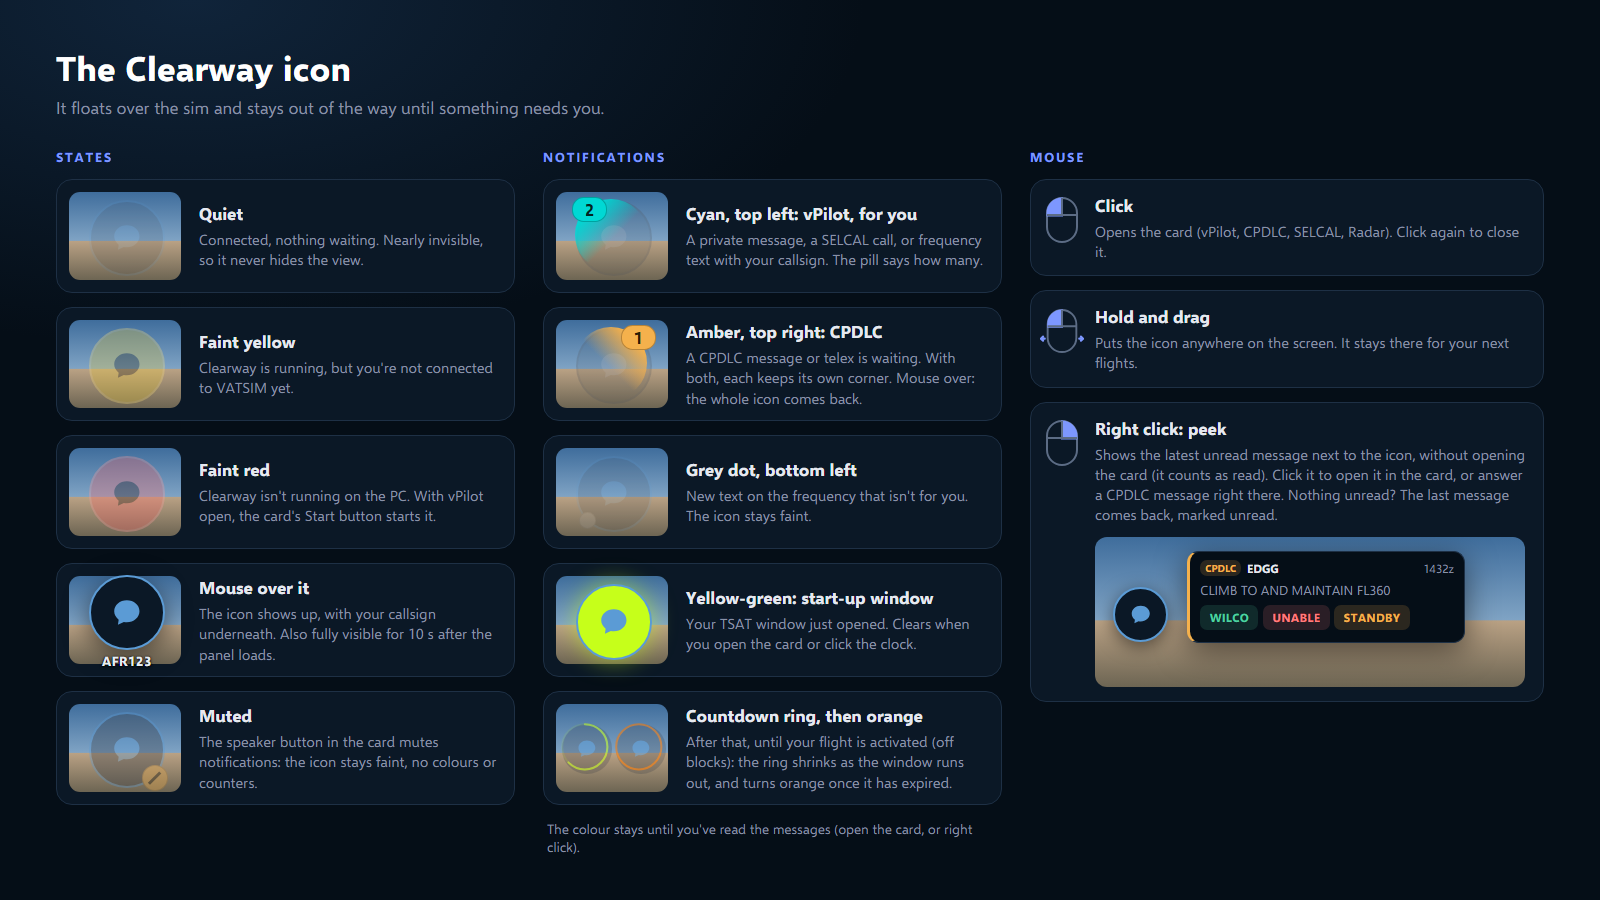
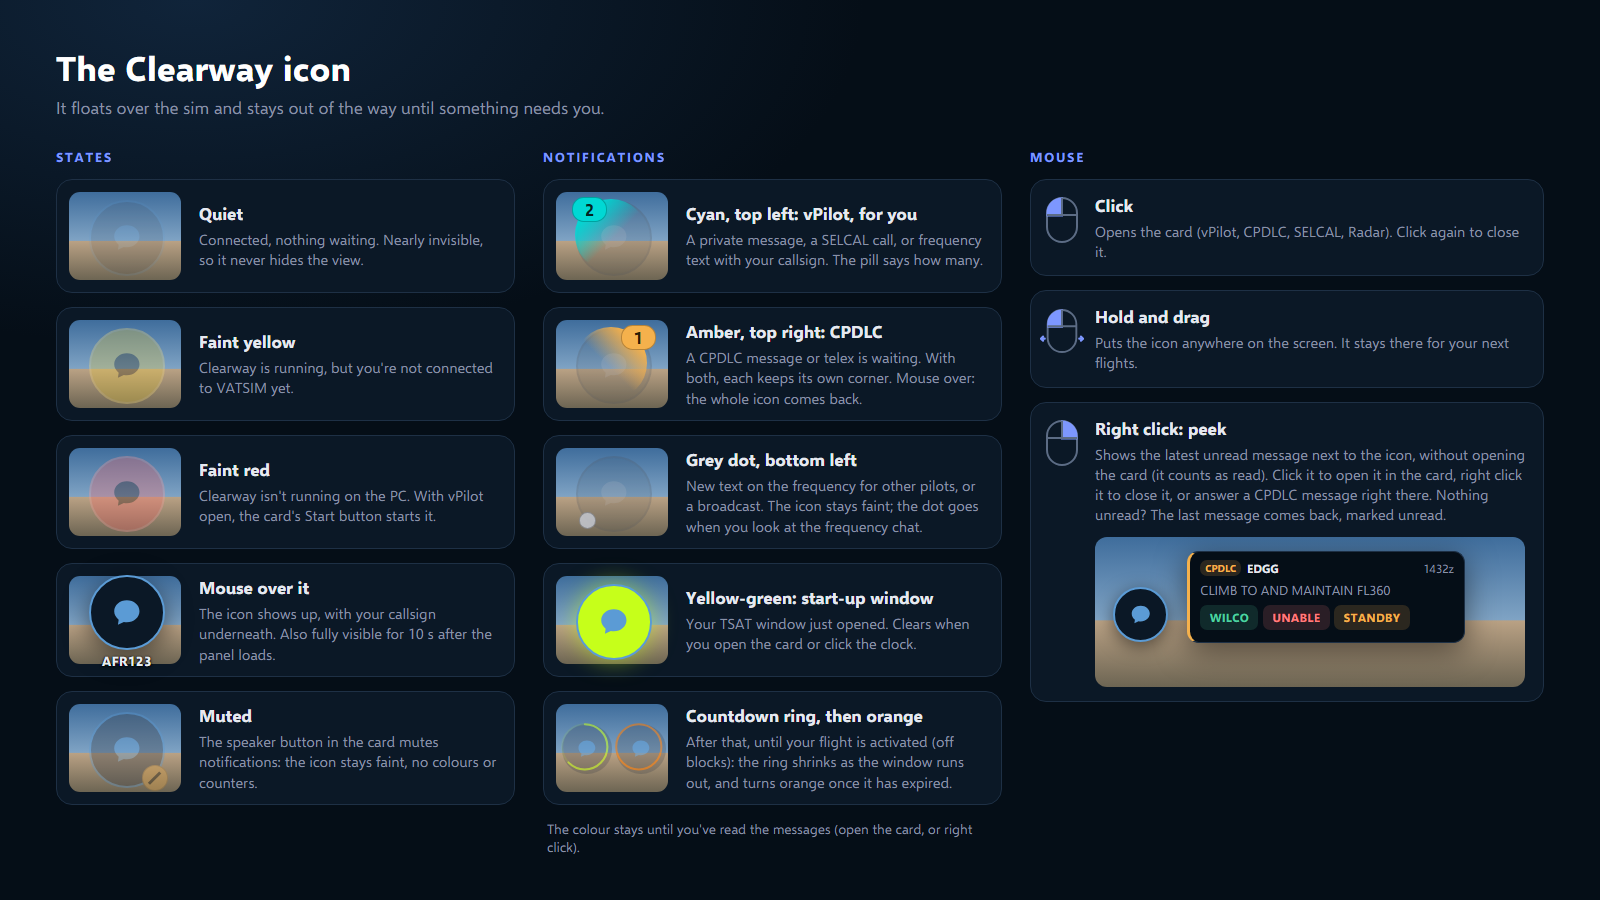
Add files via upload

Changed region(s): [[0.4062, 0.4978, 0.625, 0.5911], [0.6875, 0.5289, 0.9375, 0.5911], [0.3438, 0.56, 0.375, 0.5911]]

diff --git a/msfs-panel/html_ui/InGamePanels/ClearwayPanel/ClearwayPanel.js b/msfs-panel/html_ui/InGamePanels/ClearwayPanel/ClearwayPanel.js
@@ -263,13 +263,13 @@
     var status = !reachable ? "offline" : (state ? state.status : "offline");
     var vpOnline = reachable && state && state.vpilot && state.vpilot.connected;
     // vPilot messages meant for me (private chats, SELCAL, frequency text with my callsign) colour the icon;
-    // the rest (broadcasts, all-frequency alerts) only show a faint dot at its bottom right
+    // the rest (new frequency text for others, broadcasts) only show a small grey dot at its bottom left
     var vpMine = 0;
     if (vpCount && state) for (var i = 0; i < state.messages.length; i++) {
       var m = state.messages[i];
       if (m.dir === "in" && !m.acked && (m.kind === "pm" || m.kind === "selcal" || (m.kind === "radio" && m.mention))) vpMine++;
     }
-    var vpOther = vpCount - vpMine;
+    var vpOther = vpCount - vpMine + (reachable && state ? (state.quiet_vpilot || 0) : 0);
 
     bubble.className = "";
     if (status === "online" || vpOnline) bubble.classList.add("online");
@@ -281,17 +281,21 @@
       if (!expanded) bubble.classList.add("idle");
     } else {
       // first seconds after the panel opens: fully visible so it's easy to find, then the usual faint icon
-      if (!vpMine && !cpCount && !expanded && Date.now() >= introUntil) bubble.classList.add("idle");   // nearly invisible until needed
-      // a new message simply turns the icon solid (no flashing): amber for CPDLC, cyan for vPilot messages to me
-      if (cpCount > 0) bubble.classList.add("alert");
-      else if (vpMine > 0) bubble.classList.add("alert-vp");
+      var anyUnread = vpMine > 0 || cpCount > 0 || vpOther > 0;
+      if (!anyUnread && !expanded && Date.now() >= introUntil) bubble.classList.add("idle");   // nearly invisible until needed
+      // a new message colours the quarter under its pill (no flashing): cyan top left for vPilot messages to me,
+      // amber top right for CPDLC. With the card closed the rest of the icon fades away until hovered.
+      // vPilot messages that aren't for me: no colour, only the grey dot (faint by colours, not opacity, so the dot shows)
+      if (vpMine > 0) bubble.classList.add("q-vp");
+      if (cpCount > 0) bubble.classList.add("q-cp");
+      if (anyUnread && !expanded && Date.now() >= introUntil) bubble.classList.add("q-faint");
     }
     // start-up window open (TSAT -5 to +5 min) and not seen yet: the icon turns electric yellow-green
     tsatAlertOn = tsatAlert();
-    if (tsatAlertOn) { bubble.classList.remove("idle"); bubble.classList.add("alert-tsat"); }
+    if (tsatAlertOn) { bubble.classList.remove("idle"); bubble.classList.remove("q-faint"); bubble.classList.add("alert-tsat"); }
     // after that, until the flight is activated: a ring counting down the rest of the start-up window, then orange
     updateTsatRing();
-    lastVp = vpMine; lastCp = cpCount;
+    lastVp = vpMine + vpOther; lastCp = cpCount;
     el("cw-odot").classList.toggle("hidden", paused || !vpOther || vpMine > 0 || cpCount > 0);
     var cs = myCallsign(), bcs = el("cw-bub-cs");
     if (bcs.textContent !== cs) bcs.textContent = cs;
@@ -453,7 +457,9 @@
     // reading the chat on screen marks it read
     if (expanded && tab === "vpilot" && !notesOpen && !atcOpen) {
       for (var k = 0; k < chats.length; k++) {
-        if (chats[k].name === activeChat && chats[k].unread && !ackPending[activeChat]) {
+        // (new frequency text for others counts too: it clears the icon's grey dot)
+        var fresh = chats[k].unread || (activeChat === "FREQ" && state && state.quiet_vpilot);
+        if (chats[k].name === activeChat && fresh && !ackPending[activeChat]) {
           ackPending[activeChat] = true;
           (function (chat) { act("ack", { chat: chat }, null, null, function () { delete ackPending[chat]; }); })(activeChat);
         }
@@ -1463,6 +1469,7 @@
     save("CLEARWAY_EXPANDED", expanded);
     if (expanded) tsatSeen();                  // opening the card counts as seeing the start-up window alert
     el("cw-bubble").classList.toggle("idle", !expanded && !(lastVp || lastCp) && !tsatAlertOn);
+    el("cw-bubble").classList.toggle("q-faint", !expanded && !paused && !!(lastVp || lastCp) && !tsatAlertOn);
     if (expanded) { lastChatKey = ""; placeCard(); poll(true); }
   }
 
@@ -1782,6 +1789,11 @@
     // peek() ignores a second call within 350 ms, so a sim that sends both still peeks once.
     el("cw-bubble").addEventListener("mouseup", function (e) { if (e.button === 2) { e.preventDefault(); peek(); } });
     el("cw-peek").addEventListener("click", onPeekClick);
+    // right click on the peek closes it (mousedown, contextmenu, or only the release in MSFS 2024)
+    var closePeekRight = function (e) { if (e.type === "contextmenu" || e.button === 2) { e.preventDefault(); e.stopPropagation(); hidePeek(); } };
+    el("cw-peek").addEventListener("mousedown", closePeekRight);
+    el("cw-peek").addEventListener("mouseup", closePeekRight);
+    el("cw-peek").addEventListener("contextmenu", closePeekRight);
     el("cw-peek").addEventListener("mouseover", function () { peekHover = true; clearTimeout(peekTimer); });
     el("cw-peek").addEventListener("mouseout", function (e) {
       if (e.relatedTarget && el("cw-peek").contains(e.relatedTarget)) return;   // moving between its children

diff --git a/msfs-panel/html_ui/InGamePanels/ClearwayPanel/ClearwayPanel.css b/msfs-panel/html_ui/InGamePanels/ClearwayPanel/ClearwayPanel.css
@@ -756,3 +756,28 @@ textarea.cw-input { resize: none; overflow-y: hidden; line-height: 1.35em; min-h
 .cw-cw-run.starting { background-color: var(--mint-soft); color: var(--mint); }
 /* ATC list: the controller's name (as they show it on VATSIM) at the top right of their information */
 .cw-atc-who { float: right; margin: 0 0 0.2em 0.8em; font-family: "Selawik", "Roboto", sans-serif; font-weight: bold; color: inherit; }
+
+/* Icon blue (speech bubble + thin border): the Dark theme's navy hue, brightened so it shows on the dark icon */
+#cw-root { --icon-blue: #5b9bd5; }
+#cw-root.light { --icon-blue: #3d7bbf; }
+#cw-bubble.online, #cw-bubble.idle.online:hover { border-color: var(--icon-blue); }
+#cw-bubble.online .cw-glyph, #cw-bubble.idle.online:hover .cw-glyph { fill: var(--icon-blue); }
+/* Unread messages: only the quarter under the pill takes its colour, fading towards the centre
+   (vPilot top left in cyan, CPDLC top right in amber) */
+.cw-qglow { display: none; position: absolute; left: -0.14em; top: -0.14em; width: 3.4em; height: 3.4em; border-radius: 50%; }
+.cw-qglow.vp { background: linear-gradient(135deg, rgba(0, 216, 212, 1) 18%, rgba(0, 216, 212, 0.6) 34%, rgba(0, 216, 212, 0) 54%); }
+.cw-qglow.cp { background: linear-gradient(225deg, rgba(245, 177, 76, 1) 18%, rgba(245, 177, 76, 0.6) 34%, rgba(245, 177, 76, 0) 54%); }
+#cw-bubble.q-vp .cw-qglow.vp, #cw-bubble.q-cp .cw-qglow.cp { display: block; }
+#cw-bubble .cw-glyph { position: relative; }
+#cw-bubble .cw-ndot { z-index: 1; }
+/* card closed and not hovered: the icon itself fades away, only the quarters and pills keep their colour.
+   Transparent colours rather than opacity, which would fade the quarters too */
+#cw-bubble.q-faint { background-color: rgba(58, 63, 72, 0.12); border-color: rgba(90, 96, 107, 0.14); box-shadow: none; }
+#cw-bubble.q-faint .cw-glyph { fill: rgba(196, 200, 208, 0.16); }
+#cw-bubble.q-faint:hover { background-color: var(--bubble); border-color: var(--bubble-line); box-shadow: 0 0.3em 1.2em var(--shadow); }
+#cw-bubble.q-faint:hover .cw-glyph { fill: var(--glyph-off); }
+#cw-bubble.q-faint.online:hover { border-color: var(--icon-blue); }
+#cw-bubble.q-faint.online:hover .cw-glyph { fill: var(--icon-blue); }
+/* new vPilot text that isn't for you (frequency text for others, broadcasts): the small grey dot, bottom left. The icon
+   is faint by colours (q-faint) instead of opacity then, so the dot stays visible */
+#cw-bubble .cw-odot { z-index: 1; opacity: 0.85; }

diff --git a/companion/web/radar/radar.js b/companion/web/radar/radar.js
@@ -768,12 +768,12 @@
     c.innerHTML = "<span class='x' id='rd-cardx'><i class='a'></i><i class='b'></i></span>" + h;
     c.className = selected.kind === "airport" ? "ap" : "";
     el("cardx").onclick = function () { selected = null; showCard(); dirty = true; };
-    // controller information is clamped to two lines: a click shows all of it (and stays open across refreshes)
-    var ats = c.getElementsByClassName("atis");
+    // an ATIS is folded to two lines: its link shows all of it (and it stays open across refreshes)
+    var ats = c.getElementsByClassName("atis-more");
     for (var m = 0; m < ats.length; m++) ats[m].onclick = function () {
       var k = this.getAttribute("data-k");
       if (openAtis[k]) delete openAtis[k]; else openAtis[k] = 1;
-      this.className = "atis" + (openAtis[k] ? " open" : "");
+      showCard();
     };
   }
   var openAtis = {};
@@ -789,8 +789,15 @@
     el("tArrN").textContent = t.nArr;
   }
   function ctlHtml(k, voice) {
-    var atis = k.atis && k.atis.length ? "<div class='atis" + (openAtis[k.cs] ? " open" : "") + "' data-k='" + esc(k.cs) +
-      "' title='Click to show all'>" + esc(k.atis.join(" ")) + "</div>" : "";
+    // a controller's information lines are shown in full, one per line (as they set them on VATSIM). An ATIS can be
+    // long: it's folded to two lines, with a link to show all of it
+    var atis = "";
+    if (k.atis && k.atis.length) {
+      var isAtis = /_ATIS$/i.test(k.cs || ""), open = !isAtis || openAtis[k.cs], lines = [];
+      for (var i = 0; i < k.atis.length; i++) lines.push(esc(k.atis[i]));
+      atis = "<div class='atis" + (open ? " open" : "") + "'>" + lines.join("<br>") + "</div>" +
+        (isAtis ? "<div class='atis-more' data-k='" + esc(k.cs) + "'>" + (open ? "Show less" : "Show full ATIS") + "</div>" : "");
+    }
     return "<div class='ctl'><div class='row'><b>" + esc(k.cs) + "</b><span class='freq'>" + esc(k.f) + "</span></div>" +
       (voice ? "<div class='sub'>" + esc(voice) + "</div>" : "") +
       (k.n ? "<div class='sub'>" + esc(k.n) + "</div>" : "") + atis + "</div>";

diff --git a/msfs-panel/html_ui/InGamePanels/ClearwayPanel/radar.js b/msfs-panel/html_ui/InGamePanels/ClearwayPanel/radar.js
@@ -768,12 +768,12 @@
     c.innerHTML = "<span class='x' id='rd-cardx'><i class='a'></i><i class='b'></i></span>" + h;
     c.className = selected.kind === "airport" ? "ap" : "";
     el("cardx").onclick = function () { selected = null; showCard(); dirty = true; };
-    // controller information is clamped to two lines: a click shows all of it (and stays open across refreshes)
-    var ats = c.getElementsByClassName("atis");
+    // an ATIS is folded to two lines: its link shows all of it (and it stays open across refreshes)
+    var ats = c.getElementsByClassName("atis-more");
     for (var m = 0; m < ats.length; m++) ats[m].onclick = function () {
       var k = this.getAttribute("data-k");
       if (openAtis[k]) delete openAtis[k]; else openAtis[k] = 1;
-      this.className = "atis" + (openAtis[k] ? " open" : "");
+      showCard();
     };
   }
   var openAtis = {};
@@ -789,8 +789,15 @@
     el("tArrN").textContent = t.nArr;
   }
   function ctlHtml(k, voice) {
-    var atis = k.atis && k.atis.length ? "<div class='atis" + (openAtis[k.cs] ? " open" : "") + "' data-k='" + esc(k.cs) +
-      "' title='Click to show all'>" + esc(k.atis.join(" ")) + "</div>" : "";
+    // a controller's information lines are shown in full, one per line (as they set them on VATSIM). An ATIS can be
+    // long: it's folded to two lines, with a link to show all of it
+    var atis = "";
+    if (k.atis && k.atis.length) {
+      var isAtis = /_ATIS$/i.test(k.cs || ""), open = !isAtis || openAtis[k.cs], lines = [];
+      for (var i = 0; i < k.atis.length; i++) lines.push(esc(k.atis[i]));
+      atis = "<div class='atis" + (open ? " open" : "") + "'>" + lines.join("<br>") + "</div>" +
+        (isAtis ? "<div class='atis-more' data-k='" + esc(k.cs) + "'>" + (open ? "Show less" : "Show full ATIS") + "</div>" : "");
+    }
     return "<div class='ctl'><div class='row'><b>" + esc(k.cs) + "</b><span class='freq'>" + esc(k.f) + "</span></div>" +
       (voice ? "<div class='sub'>" + esc(voice) + "</div>" : "") +
       (k.n ? "<div class='sub'>" + esc(k.n) + "</div>" : "") + atis + "</div>";

diff --git a/companion/web/radar/radar.css b/companion/web/radar/radar.css
@@ -79,9 +79,12 @@
 #rd-card .freq { color: #7fe0a0; font-weight: 600; margin-left: 0.8em; }
 #rd-card .ctl { padding: 0.25em 0; border-top: 1px solid #222b37; }
 #rd-card .ctl:first-of-type { border-top: 0; }
-/* controller information: two lines (max-height, Coherent has no line-clamp); a click shows it all */
-#rd-card .atis { color: #8d9bad; font-size: 0.92em; white-space: normal; max-height: 2.5em; overflow: hidden; cursor: pointer; }
+/* controller information: shown in full, one VATSIM line per line. An ATIS is folded to two lines (max-height,
+   Coherent has no line-clamp) with a "Show full ATIS" link. A tall card scrolls instead of leaving the radar */
+#rd-card { max-height: calc(100% - 3.6em); overflow-y: auto; box-sizing: border-box; }
+#rd-card .atis { color: #8d9bad; font-size: 0.92em; line-height: 1.25em; white-space: normal; max-height: 2.5em; overflow: hidden; }
 #rd-card .atis.open { max-height: none; }
+#rd-card .atis-more { margin-top: 0.15em; font-size: 0.85em; font-weight: bold; color: #7fb4e6; cursor: pointer; }
 #rd-card .x { position: absolute; right: 0.5em; top: 0.35em; width: 1.4em; height: 1.4em; cursor: pointer; }
 #rd-card .x i { position: absolute; left: 50%; top: 50%; width: 0.9em; height: 0.12em; margin: -0.06em 0 0 -0.45em; background: #6c7a8c; }
 #rd-card .x i.a { transform: rotate(45deg); }

diff --git a/msfs-panel/html_ui/InGamePanels/ClearwayPanel/radar.css b/msfs-panel/html_ui/InGamePanels/ClearwayPanel/radar.css
@@ -79,9 +79,12 @@
 #rd-card .freq { color: #7fe0a0; font-weight: 600; margin-left: 0.8em; }
 #rd-card .ctl { padding: 0.25em 0; border-top: 1px solid #222b37; }
 #rd-card .ctl:first-of-type { border-top: 0; }
-/* controller information: two lines (max-height, Coherent has no line-clamp); a click shows it all */
-#rd-card .atis { color: #8d9bad; font-size: 0.92em; white-space: normal; max-height: 2.5em; overflow: hidden; cursor: pointer; }
+/* controller information: shown in full, one VATSIM line per line. An ATIS is folded to two lines (max-height,
+   Coherent has no line-clamp) with a "Show full ATIS" link. A tall card scrolls instead of leaving the radar */
+#rd-card { max-height: calc(100% - 3.6em); overflow-y: auto; box-sizing: border-box; }
+#rd-card .atis { color: #8d9bad; font-size: 0.92em; line-height: 1.25em; white-space: normal; max-height: 2.5em; overflow: hidden; }
 #rd-card .atis.open { max-height: none; }
+#rd-card .atis-more { margin-top: 0.15em; font-size: 0.85em; font-weight: bold; color: #7fb4e6; cursor: pointer; }
 #rd-card .x { position: absolute; right: 0.5em; top: 0.35em; width: 1.4em; height: 1.4em; cursor: pointer; }
 #rd-card .x i { position: absolute; left: 50%; top: 50%; width: 0.9em; height: 0.12em; margin: -0.06em 0 0 -0.45em; background: #6c7a8c; }
 #rd-card .x i.a { transform: rotate(45deg); }

diff --git a/msfs-panel/html_ui/InGamePanels/ClearwayPanel/ClearwayPanel.html b/msfs-panel/html_ui/InGamePanels/ClearwayPanel/ClearwayPanel.html
@@ -27,6 +27,7 @@
 
         <!-- floating icon: vPilot count on the left, CPDLC count on the right -->
         <div id="cw-bubble" class="offline" title="Clearway">
+          <span class="cw-qglow vp"></span><span class="cw-qglow cp"></span>
           <svg viewBox="0 0 24 24" class="cw-glyph"><path d="M12 3.6c-4.7 0-8.5 3.3-8.5 7.4 0 2.2 1.1 4.2 3 5.6L6 20l4-1.9c.6.1 1.3.2 2 .2 4.7 0 8.5-3.3 8.5-7.4S16.7 3.6 12 3.6z"/></svg>
           <span class="cw-ndot vp hidden" id="cw-ndot-vp"></span>
           <span class="cw-ndot cp hidden" id="cw-ndot-cp"></span>

diff --git a/companion/web/vp.js b/companion/web/vp.js
@@ -56,7 +56,9 @@
     renderAtc(vp);
     renderNotes(s);
     // reading the chat that is on screen marks it read
-    if (tab === "vpilot" && !document.hidden && (chats.get(active) || {}).unread) CW.act("ack", { chat: active });
+    // (new frequency text for others counts too, so the panel's grey dot goes away)
+    if (tab === "vpilot" && !document.hidden && ((chats.get(active) || {}).unread || (active === "FREQ" && s.quiet_vpilot)))
+      CW.act("ack", { chat: active });
     lastTab = tab;
   }
 

diff --git a/companion/clearway/session.py b/companion/clearway/session.py
@@ -244,6 +244,9 @@ class Session(VpilotMixin, SelcalMixin, TsatMixin):
             if not station or time.time() - self.pending_since < self.LOGON_TIMEOUT:
                 return
             self.pending_logon = None
+            for m in self.messages:            # the request card stops waiting for an answer
+                if m["dir"] == "out" and m["text"] == "REQUEST LOGON" and m["station"] == station and m["status"] == "awaiting":
+                    m["status"] = "none"
             self._bump()
         self._system(f"No answer from {station} after 10 minutes: logon request cancelled. Log on again when the station is online.")
 
@@ -332,12 +335,12 @@ class Session(VpilotMixin, SelcalMixin, TsatMixin):
             self._expect_reply()
             return
         if upper.startswith("LOGON ACCEPTED"):
+            # logged on: shown as a normal message from the station (icon, notification, answers the LOGON request),
+            # not just a grey system line that was easy to miss
             with self.lock:
                 self.current_unit = self.pending_logon or item.sender
                 self.pending_logon = None
                 self._bump()
-            self._system(f"Logged on to {self.current_unit}.")
-            return
         if upper.startswith("LOGON REJECTED") or upper.startswith("LOGON DENIED"):
             with self.lock:
                 self.pending_logon = None
@@ -518,6 +521,7 @@ class Session(VpilotMixin, SelcalMixin, TsatMixin):
                     hit = True
                 if hit:
                     m["acked"] = True
+                    m.pop("quiet", None)
             self._bump()
 
     def unack(self, msg_id: int) -> None:
@@ -579,8 +583,9 @@ class Session(VpilotMixin, SelcalMixin, TsatMixin):
             self.pending_since = time.time()
             self._bump()
         self._expect_reply()
-        self._send_logged(station, "cpdlc", build_cpdlc(self._take_min(), None, "Y", "REQUEST LOGON"),
-                          "cpdlc", "REQUEST LOGON")
+        n = self._take_min()   # kept on the request, so the station's LOGON ACCEPTED is linked to it as its answer
+        self._send_logged(station, "cpdlc", build_cpdlc(n, None, "Y", "REQUEST LOGON"),
+                          "cpdlc", "REQUEST LOGON", min=n, ra="Y", status="awaiting")
 
     def logoff(self) -> None:
         self._require_online()
@@ -680,6 +685,7 @@ class Session(VpilotMixin, SelcalMixin, TsatMixin):
             unacked_vp = sum(1 for m in self.messages if m["dir"] == "in" and not m["acked"] and m["kind"] in VP_KINDS)
             unacked_cpdlc = sum(1 for m in self.messages if m["dir"] == "in" and not m["acked"] and m["kind"] not in VP_KINDS)
             unacked = unacked_vp + unacked_cpdlc
+            quiet_vp = sum(1 for m in self.messages if m.get("quiet"))   # new frequency text for others
             return {
                 "version": self.version,
                 "status": self.status,
@@ -696,6 +702,7 @@ class Session(VpilotMixin, SelcalMixin, TsatMixin):
                 "unacked": unacked,
                 "unacked_vpilot": unacked_vp,
                 "unacked_cpdlc": unacked_cpdlc,
+                "quiet_vpilot": quiet_vp,
                 "notes": self.notes,
                 "messages": msgs,
                 "trash": [{k: m.get(k) for k in ("id", "ts", "dir", "kind", "station", "text")}

diff --git a/companion/clearway/tsat.py b/companion/clearway/tsat.py
@@ -32,10 +32,20 @@ AIRBORNE_GS = 50           # kt: above this you've left the ground
 LOOP = 10                  # seconds between looks at the conditions (no request)
 
 
-def _hhmm_to_ms(hhmm: str, now: float) -> int | None:
-    """'1412' (UTC) -> epoch ms of the nearest such time to now (handles midnight)."""
-    s = str(hhmm or "").strip().replace(":", "")
+def _hhmm(value) -> str:
+    """vIFF times come as '1412' or with seconds '141200' (cdmData since 2026-11): -> '1412', or '' if not a time."""
+    s = str(value or "").strip().replace(":", "")
+    if len(s) == 6 and s.isdigit():
+        s = s[:4]
     if len(s) != 4 or not s.isdigit() or int(s[:2]) > 23 or int(s[2:]) > 59:
+        return ""
+    return s
+
+
+def _hhmm_to_ms(hhmm: str, now: float) -> int | None:
+    """'1412' or '141200' (UTC) -> epoch ms of the nearest such time to now (handles midnight)."""
+    s = _hhmm(hhmm)
+    if not s:
         return None
     today = dt.datetime.fromtimestamp(now, dt.timezone.utc).replace(hour=int(s[:2]), minute=int(s[2:]), second=0, microsecond=0)
     best = min((today + dt.timedelta(days=d) for d in (-1, 0, 1)), key=lambda t: abs(t.timestamp() - now))
@@ -117,9 +127,9 @@ class TsatMixin:
         if mine:
             cdm = mine.get("cdmData") or {}
             now = time.time()
-            tsat = str(cdm.get("tsat") or "")
-            tobt = str(cdm.get("tobt") or mine.get("tobt") or cdm.get("reqTobt") or mine.get("reqTobt") or "")
-            ctot = str(mine.get("ctot") or cdm.get("ctot") or "")
+            tsat = _hhmm(cdm.get("tsat"))
+            tobt = _hhmm(cdm.get("tobt") or mine.get("tobt") or cdm.get("reqTobt") or mine.get("reqTobt"))
+            ctot = _hhmm(mine.get("ctot") or cdm.get("ctot"))
             tsat_ms = _hhmm_to_ms(tsat, now)
             suggested = False
             if not tsat_ms and _hhmm_to_ms(tobt, now):
@@ -135,7 +145,7 @@ class TsatMixin:
                 info = {
                     "callsign": cs, "airport": dep,
                     "tobt": tobt, "tsat": tsat, "suggested": suggested,
-                    "ttot": str(cdm.get("ttot") or ""), "ctot": ctot,
+                    "ttot": _hhmm(cdm.get("ttot")), "ctot": ctot,
                     "status": str(mine.get("cdmSts") or ""), "activated": activated,
                     "tsat_ms": tsat_ms, "fetched": int(now * 1000),
                 }

diff --git a/tools/mock_viff.py b/tools/mock_viff.py
@@ -28,7 +28,8 @@ class H(BaseHTTPRequestHandler):
     def do_GET(self):
         tsat = T0 + OFFSET * 60
         flight = {"callsign": CS, "departure": "XXXX", "atot": "", "ctot": hhmm(tsat + 1200) if CTOT else "",
-                  "cdmSts": "COMPLY", "cdmData": {"tobt": hhmm(tsat - 300), "tsat": hhmm(tsat), "ttot": hhmm(tsat + 900),
+                  "cdmSts": "COMPLY", "cdmData": {"tobt": hhmm(tsat - 300) + "00", "tsat": hhmm(tsat) + "00",
+                                                  "ttot": hhmm(tsat + 900) + "00",   # live cdmData: HHMMSS
                                                   "ctot": hhmm(tsat + 1200) if CTOT else ""}}
         if SUGGESTED:      # no CDM controller online: only the pilot's TOBT, no TSAT (like a real record)
             flight = {"callsign": CS, "departure": "XXXX", "atot": "", "ctot": "", "cdmSts": "", "tobt": hhmm(tsat),

diff --git a/companion/clearway/vpilot.py b/companion/clearway/vpilot.py
@@ -195,8 +195,10 @@ class VpilotMixin:
             me = self.vpilot_callsign or self.callsign
             mentioned = bool(me) and me in text.upper()
             alert = mentioned or bool(self.cfg.get("vpilot_all_frequency"))
+            # frequency text for others isn't "unread" (no counters, no notification), but it's new until you look at
+            # the frequency chat: the panel icon shows a small grey dot for it ("quiet")
             msg = self._add("in", "radio", sender, text, chat=FREQ, freq=str(evt.get("frequencies", "")),
-                            mention=mentioned, acked=not alert)
+                            mention=mentioned, acked=not alert, quiet=not alert)
             if alert:
                 self._notify(msg)
         elif kind == "atis":
